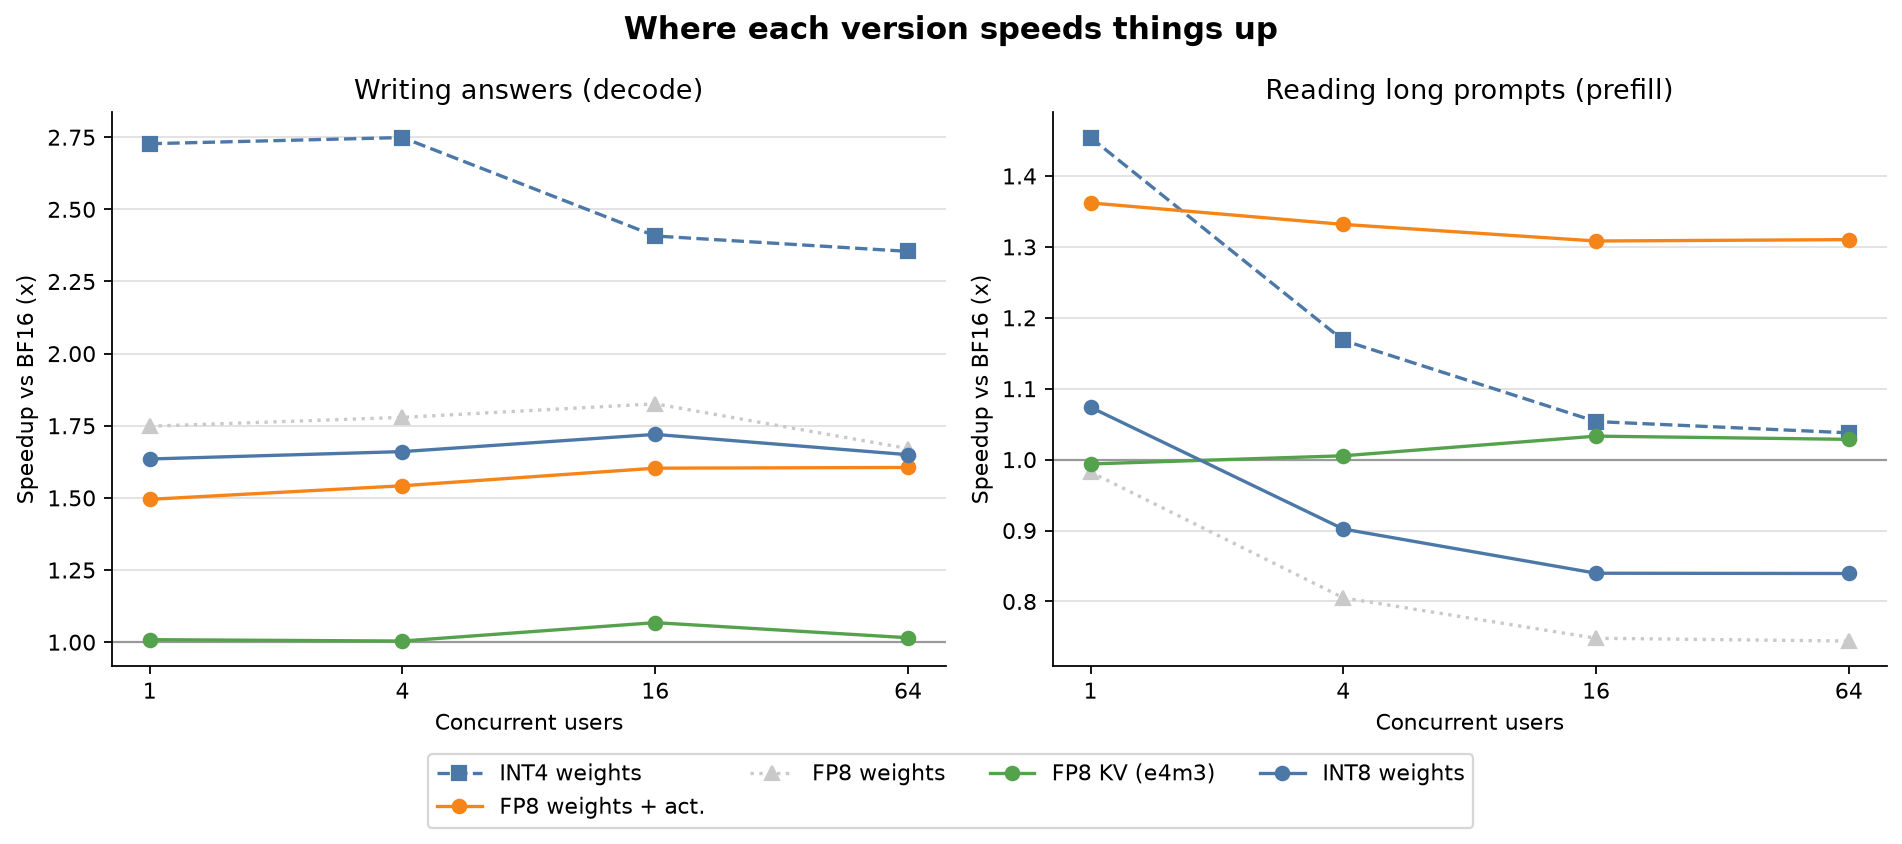
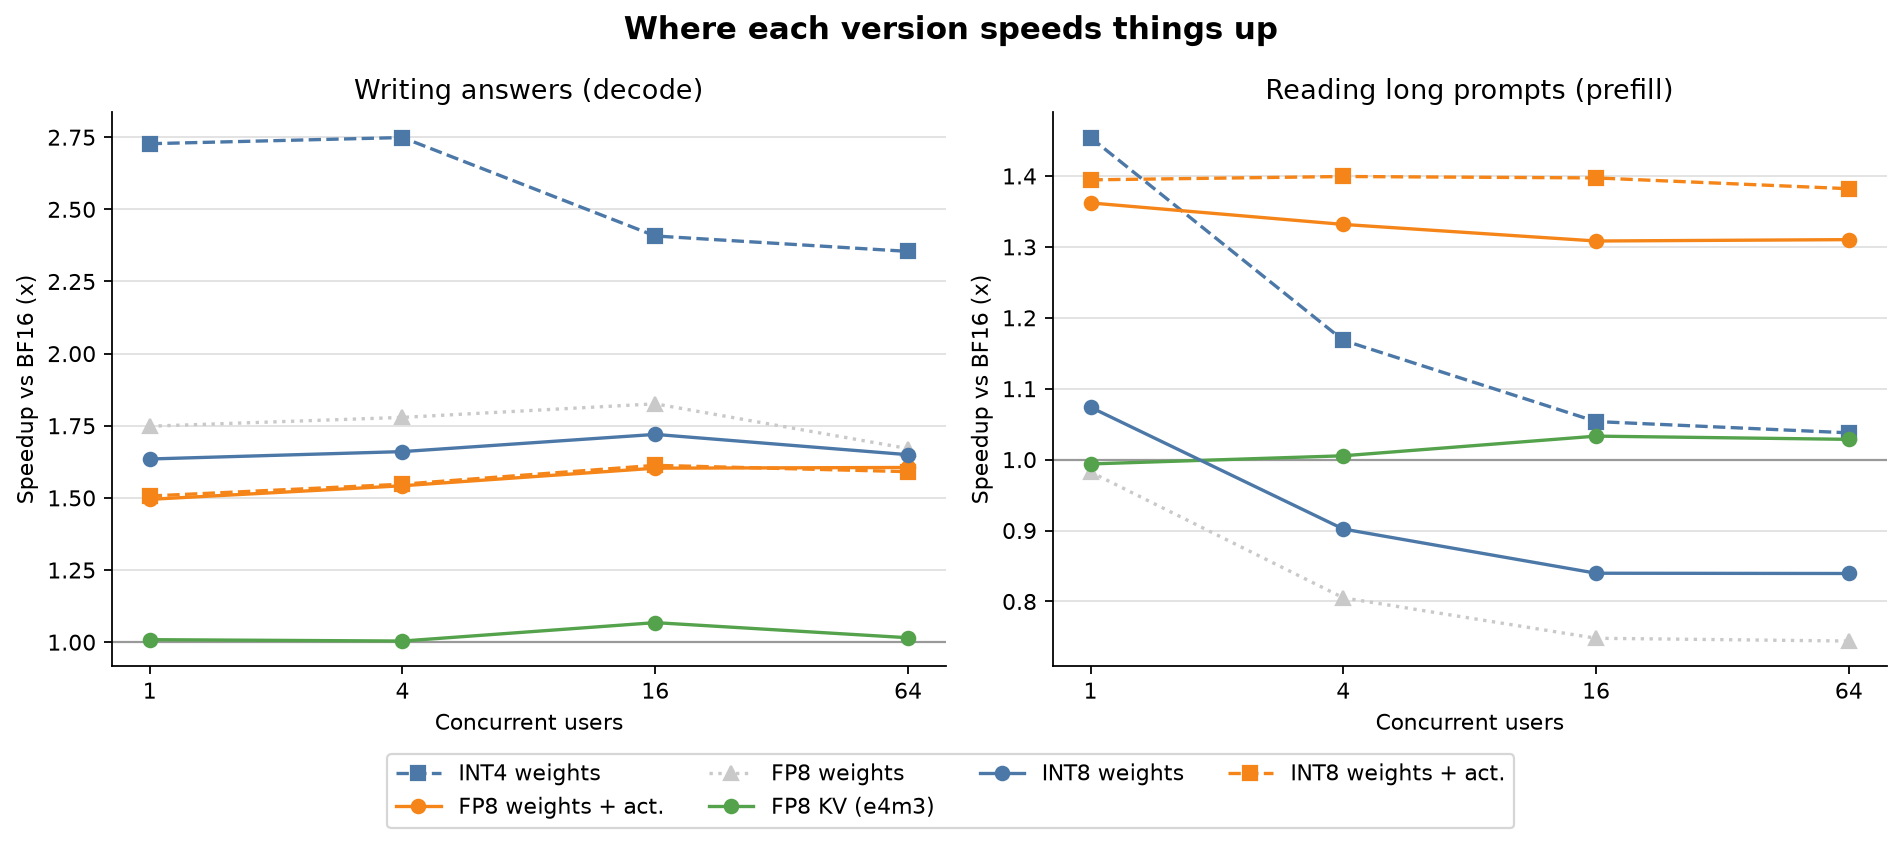
Update article figures through w8a8-int8 (7/8 configs)

diff --git a/results/article/summary.md b/results/article/summary.md
@@ -6,5 +6,6 @@
 | FP8 weights | 79.61% | -0.99 | 74.06% | -0.19 | 573,952 | +23% | 85.9 | 3114.8 | 1.75x | 1.67x | 8644.1 | 0.74x | 4.5 | 2.64 |
 | FP8 KV (e4m3) | 0.00% | -80.59 | 23.79% | -50.46 | 935,200 | +100% | 49.5 | 1892.7 | 1.01x | 1.02x | 11947.6 | 1.03x | 2.0 | 2.60 |
 | INT8 weights | 78.32% | -2.27 | 74.18% | -0.07 | 573,952 | +23% | 80.3 | 3075.2 | 1.63x | 1.65x | 9750.5 | 0.84x | 4.2 | 2.81 |
+| INT8 weights + act. | 79.98% | -0.61 | 73.76% | -0.49 | 569,072 | +22% | 74.0 | 2965.7 | 1.51x | 1.59x | 16052.5 | 1.38x | 3.5 | 2.36 |
 
-**Total: 15.25 GPU-hours, $16.93 at $1.11/hr**
+**Total: 17.61 GPU-hours, $19.55 at $1.11/hr**
